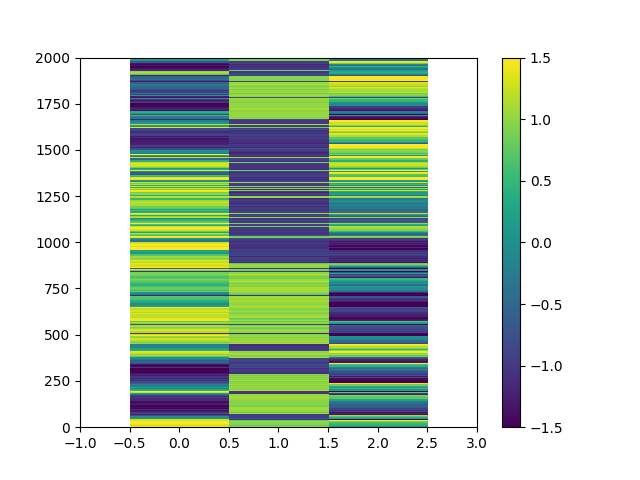
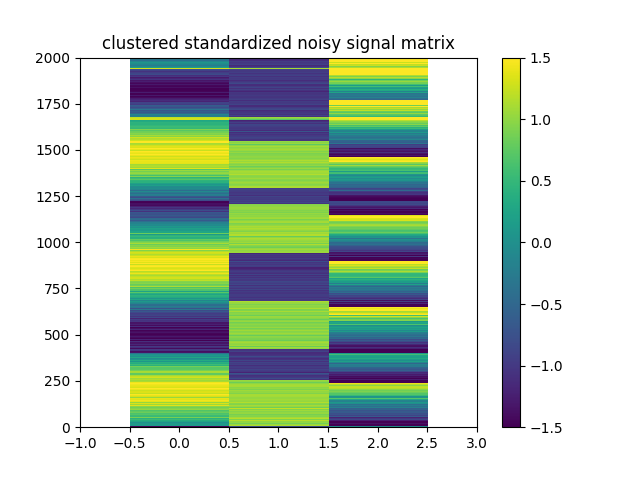
update images_1

Changed region(s): [[0.1562, 0.0625, 0.7188, 0.9062]]

diff --git a/fastICA/main.py b/fastICA/main.py
@@ -6,7 +6,7 @@ import csv
 from sklearn.decomposition import FastICA, PCA
 from sklearn.cluster import DBSCAN
 
-episode_num = 2
+episode_num = 1
 img_cnt = 0
 
 
@@ -64,10 +64,11 @@ def clustering(X):
     distance_matrix = 1 - np.corrcoef(X)
     # print(distance_matrix)
 
-    # test: dbscan = DBSCAN(eps=0.1, min_samples=2, metric='precomputed')
-    # solve: dbscan = DBSCAN(eps=0.0001, min_samples=10, metric='precomputed')
+    # test: DBSCAN(eps=0.1, min_samples=2, metric='precomputed')
+    # solve: DBSCAN(eps=0.0005, min_samples=5, metric='precomputed')
+    # prod: DBSCAN(eps=0.01, min_samples=3, metric='precomputed')
 
-    dbscan = DBSCAN(eps=0.01, min_samples=3, metric='precomputed')
+    dbscan = DBSCAN(eps=0.0005, min_samples=5, metric='precomputed')
     labels = dbscan.fit_predict(distance_matrix)
 
     # print(labels)
@@ -278,4 +279,4 @@ def calculate_and_plot(X, n_components, S=None, w=None):
 
 
 if __name__ == '__main__':
-    solve2()
+    solve()
